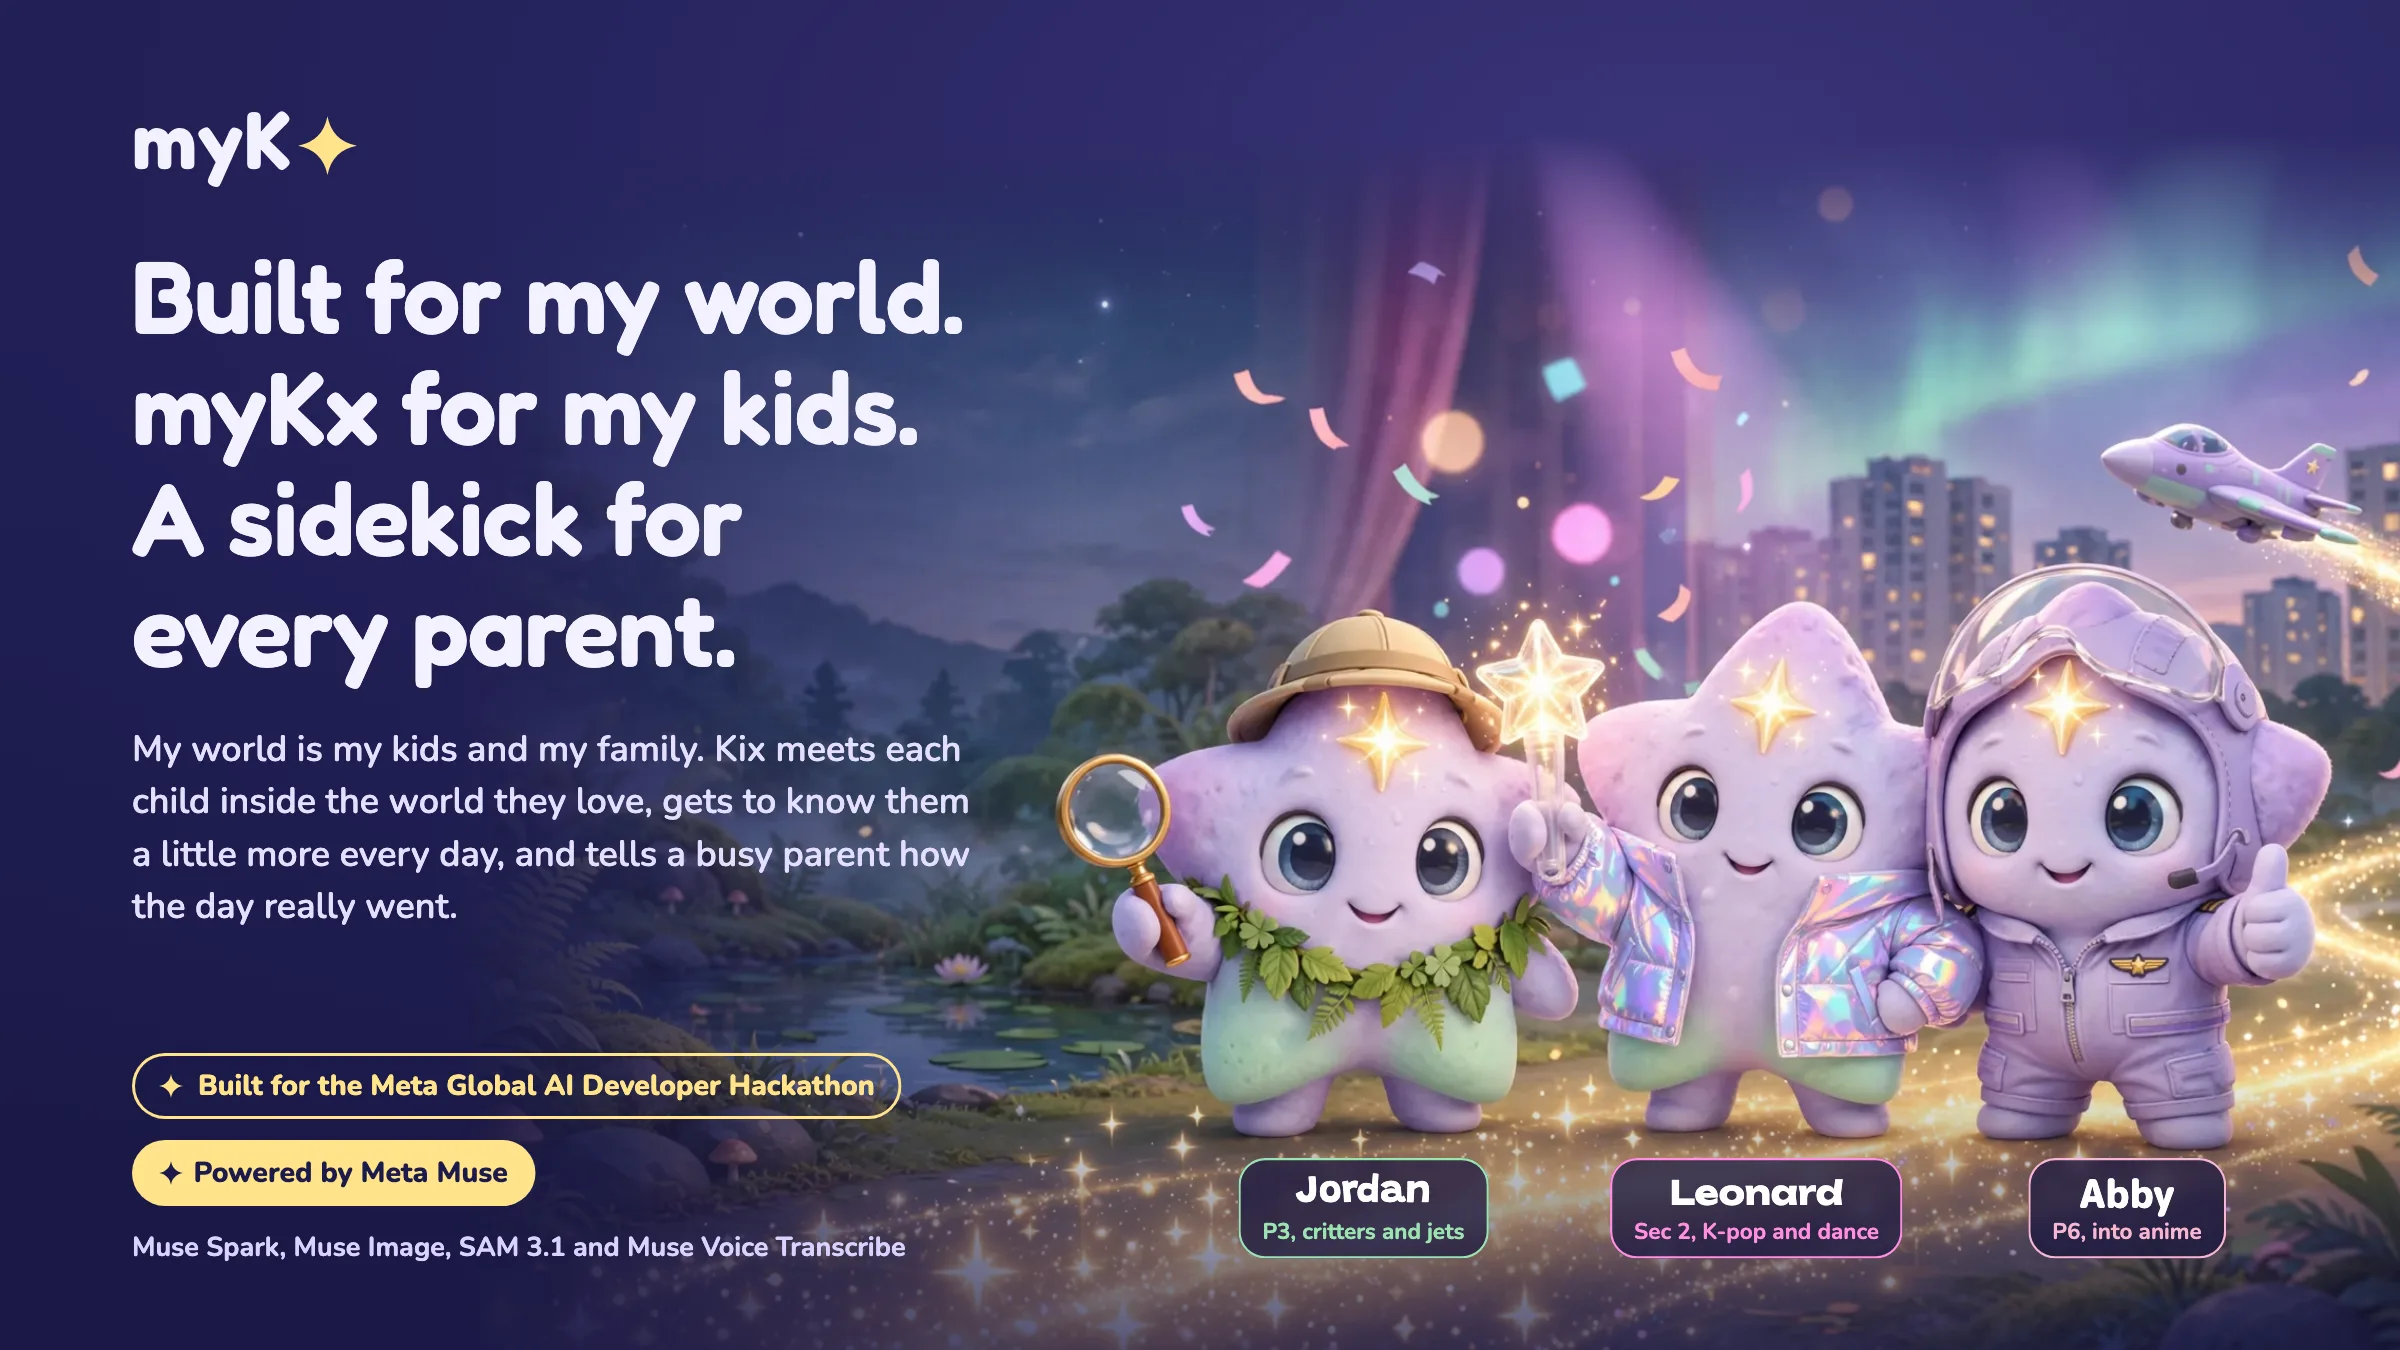
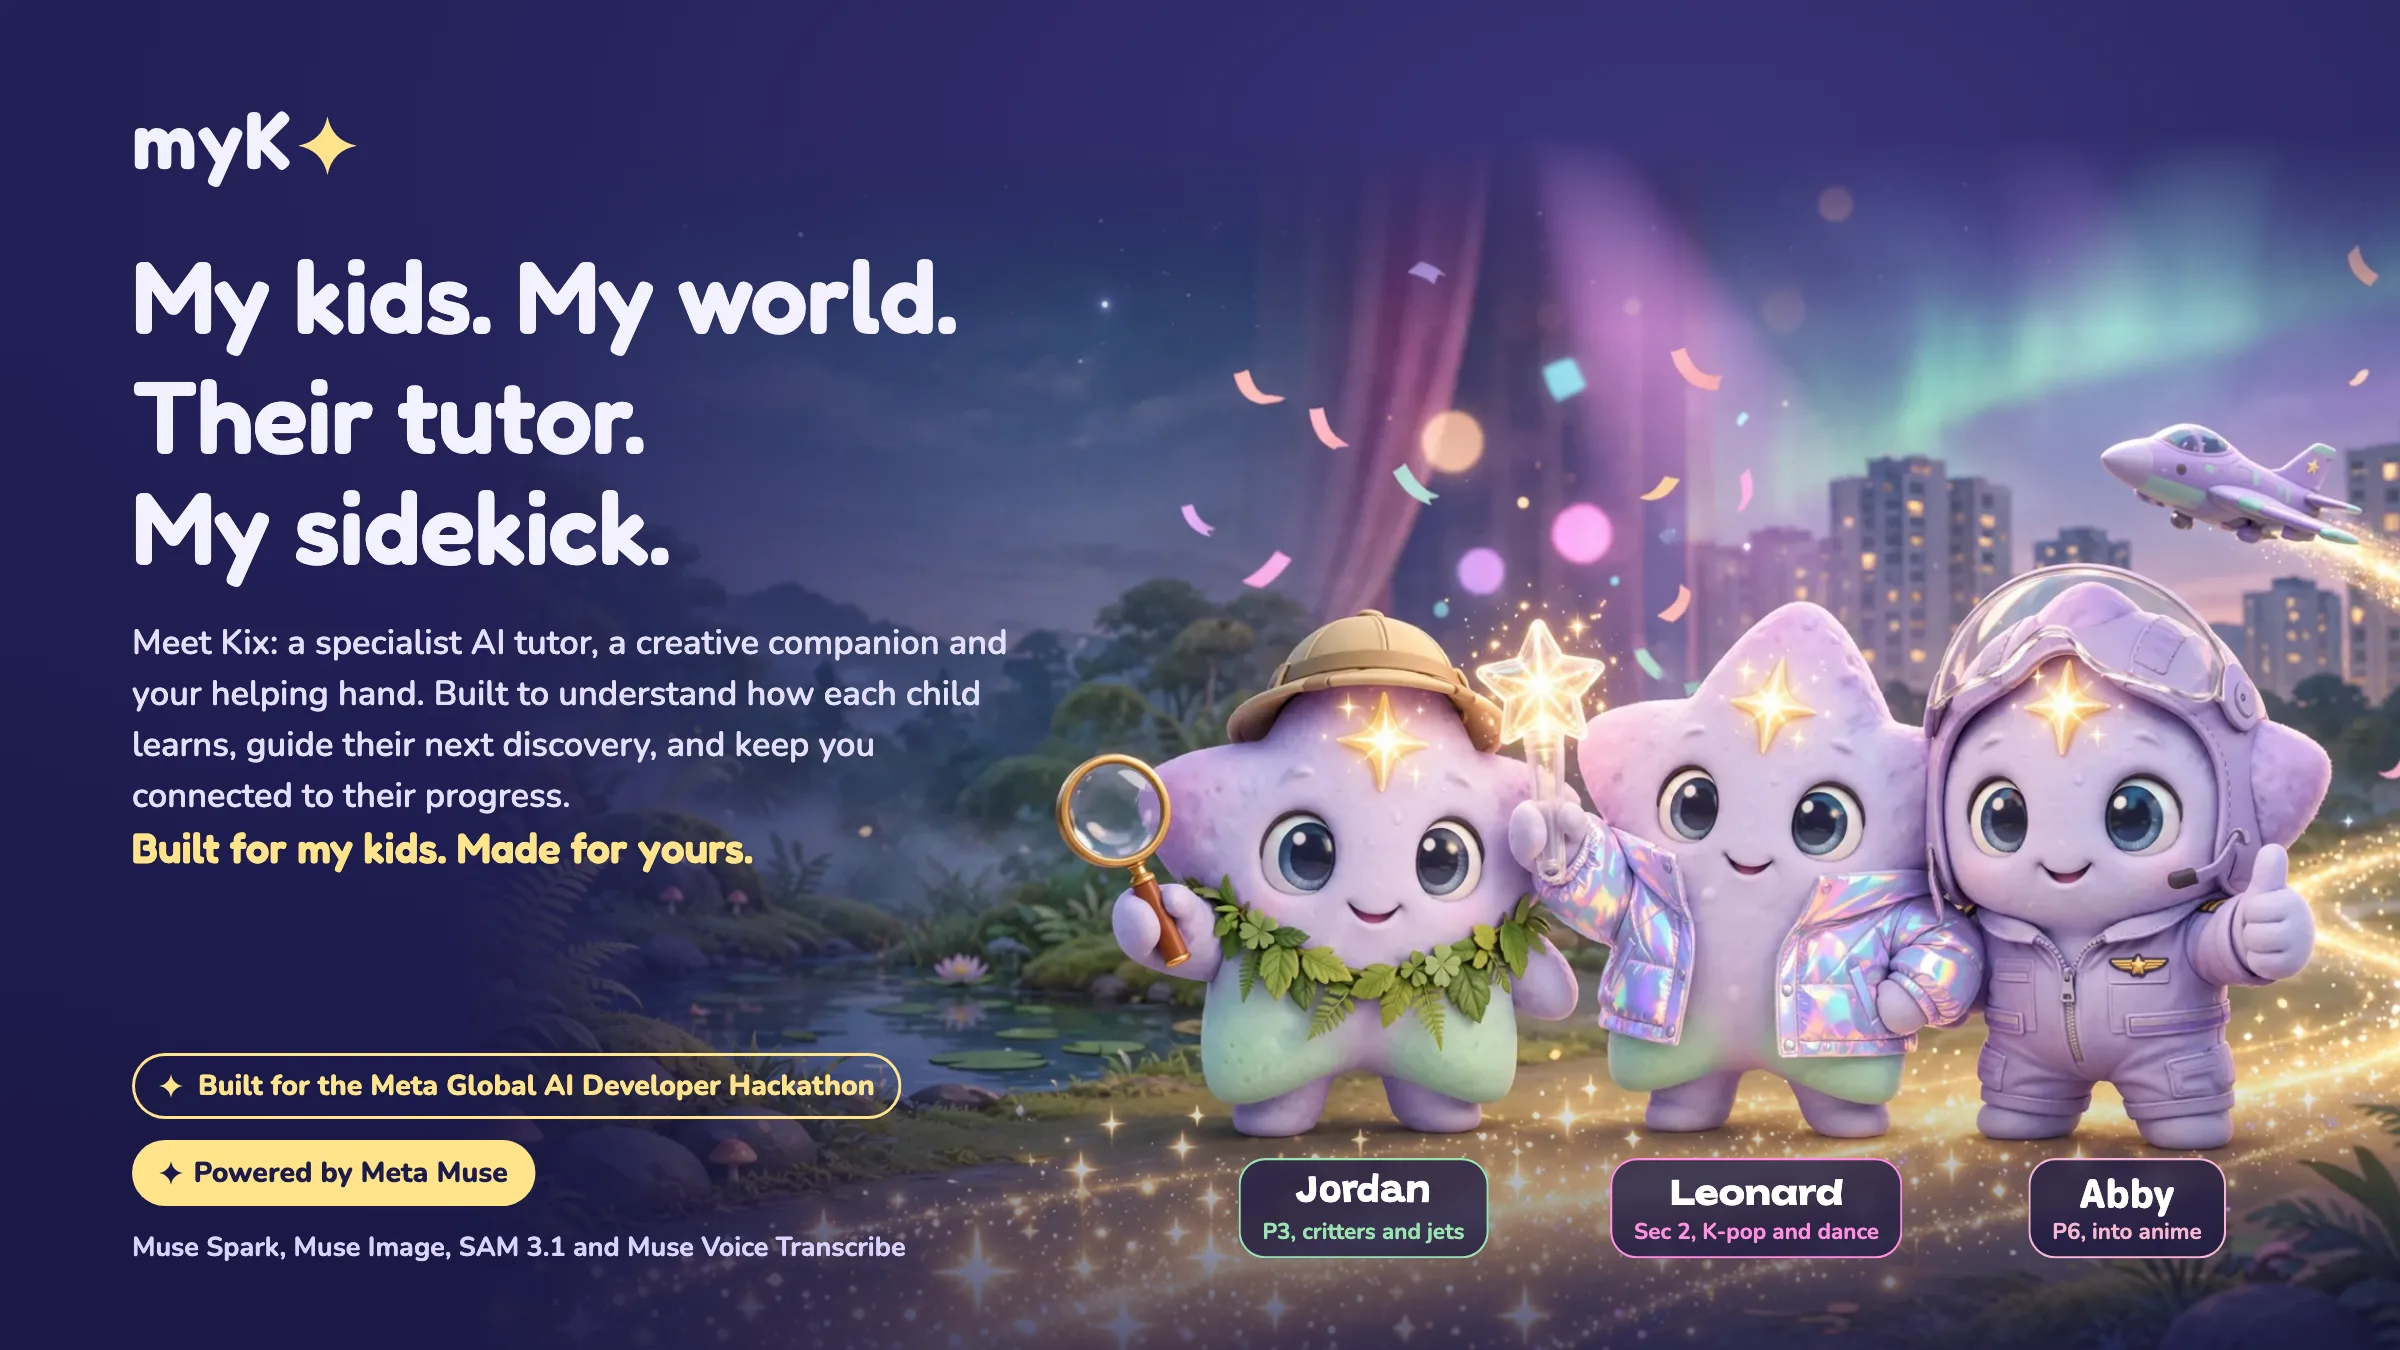
The founder's theme: My kids. My world. Their tutor. My sidekick.
The hero board, the README (top and close) and the video's closing card now carry the founder's lines: "My kids. My world. Their tutor. My sidekick.", "Meet Kix: a specialist AI tutor, a creative companion and your helping hand…" and "Built for my kids. Made for yours." Canvas v65.

Agent: Claude Code
Claude-Session: https://claude.ai/code/session_01W5FUqr3wzG1fxesKh8vtqK

Changed region(s): [[0.0312, 0.1867, 0.4375, 0.6844]]

diff --git a/docs/design/boards/ReadmeHero.dc.html b/docs/design/boards/ReadmeHero.dc.html
@@ -41,7 +41,8 @@ body{margin:0;background:#1C1B4A}
 .h-mark{height:54px;display:block;margin-bottom:34px}
 .h-copy .rd-h1{font-size:68px;line-height:74px}
 .h-copy .rd-h1 span{display:block}
-.h-copy .rd-lede{margin-top:26px;width:560px;font-size:24px;line-height:35px;color:#E4DFFF}
+.h-copy .rd-lede{margin-top:24px;width:600px;font-size:23px;line-height:34px;color:#E4DFFF}
+.h-close{margin-top:28px;font:600 28px/34px "Fredoka",sans-serif;color:#FFE38A}
 .h-badges{position:absolute;left:88px;bottom:56px;display:flex;flex-direction:column;gap:14px;width:720px}
 .h-hack{display:inline-flex;align-items:center;gap:10px;align-self:flex-start;height:44px;padding:0 18px;border-radius:999px;box-shadow:inset 0 0 0 2px #FFE38A;color:#FFE38A;font:800 19px/1 "Nunito",sans-serif}
 .h-muse{display:flex;align-items:center;gap:14px;flex-wrap:wrap}
@@ -59,8 +60,9 @@ body{margin:0;background:#1C1B4A}
 <div class="h-scrim"></div>
 <div class="h-copy">
   <img class="h-mark" src="/_blob/86d2ad40444eabc4ba4c8a0e9f1d4603" alt="myKx">
-  <h1 class="rd-h1"><span>Built for my world.</span><span>myKx for my kids.</span><span>A sidekick for</span><span>every parent.</span></h1>
-  <p class="rd-lede">My world is my kids and my family. Kix meets each child inside the world they love, gets to know them a little more every day, and tells a busy parent how the day really went.</p>
+  <h1 class="rd-h1"><span>My kids. My world.</span><span style="margin-top:6px">Their tutor.</span><span>My sidekick.</span></h1>
+  <p class="rd-lede">Meet Kix: a specialist AI tutor, a creative companion and your helping hand. Built to understand how each child learns, guide their next discovery, and keep you connected to their progress.</p>
+  <p class="h-close">Built for my kids. Made for yours.</p>
 </div>
 <div class="h-tag" style="--c:#9BE3B0;left:909px;top:772px"><b style="font-family:'Grandstander',sans-serif">Jordan</b><small>P3, critters and jets</small></div>
 <div class="h-tag" style="--c:#FF8FE0;left:1171px;top:772px"><b style="font-family:'Unbounded',sans-serif;font-size:22px">Leonard</b><small>Sec 2, K-pop and dance</small></div>

diff --git a/docs/design/canvas-src/readme-boards.py b/docs/design/canvas-src/readme-boards.py
@@ -81,7 +81,8 @@ hero_css = """
 .h-mark{height:54px;display:block;margin-bottom:34px}
 .h-copy .rd-h1{font-size:68px;line-height:74px}
 .h-copy .rd-h1 span{display:block}
-.h-copy .rd-lede{margin-top:26px;width:560px;font-size:24px;line-height:35px;color:#E4DFFF}
+.h-copy .rd-lede{margin-top:24px;width:600px;font-size:23px;line-height:34px;color:#E4DFFF}
+.h-close{margin-top:28px;font:600 28px/34px "Fredoka",sans-serif;color:#FFE38A}
 .h-badges{position:absolute;left:88px;bottom:56px;display:flex;flex-direction:column;gap:14px;width:720px}
 .h-hack{display:inline-flex;align-items:center;gap:10px;align-self:flex-start;height:44px;padding:0 18px;border-radius:999px;box-shadow:inset 0 0 0 2px #FFE38A;color:#FFE38A;font:800 19px/1 "Nunito",sans-serif}
 .h-muse{display:flex;align-items:center;gap:14px;flex-wrap:wrap}
@@ -97,8 +98,9 @@ build_hero = f"""
 <div class="h-scrim"></div>
 <div class="h-copy">
   <img class="h-mark" src="{img('wordmark-dark')}" alt="myKx">
-  <h1 class="rd-h1"><span>Built for my world.</span><span>myKx for my kids.</span><span>A sidekick for</span><span>every parent.</span></h1>
-  <p class="rd-lede">My world is my kids and my family. Kix meets each child inside the world they love, gets to know them a little more every day, and tells a busy parent how the day really went.</p>
+  <h1 class="rd-h1"><span>My kids. My world.</span><span style="margin-top:6px">Their tutor.</span><span>My sidekick.</span></h1>
+  <p class="rd-lede">Meet Kix: a specialist AI tutor, a creative companion and your helping hand. Built to understand how each child learns, guide their next discovery, and keep you connected to their progress.</p>
+  <p class="h-close">Built for my kids. Made for yours.</p>
 </div>
 <div class="h-tag" style="--c:#9BE3B0;left:909px;top:772px"><b style="font-family:'Grandstander',sans-serif">Jordan</b><small>P3, critters and jets</small></div>
 <div class="h-tag" style="--c:#FF8FE0;left:1171px;top:772px"><b style="font-family:'Unbounded',sans-serif;font-size:22px">Leonard</b><small>Sec 2, K-pop and dance</small></div>

diff --git a/docs/plan/PROGRESS.md b/docs/plan/PROGRESS.md
@@ -103,6 +103,7 @@ Dates are SGT. "Agent" is who did the work; "Tools" are the models and services 
 | 29 Oct | Kix gets better every day, and the kids' real interests (founder's README notes). **Tender start:** `lib/kix/today.ts` reads the last mood reading from an earlier day; after a hard one, Home opens with a warm-up, the teen deck eases in, and the tutor, Ask Kix and spark prompts get a gentle-tone note (Kix never says why; the demo family's Jordan has a labelled sample day). **Interest sparks:** `profiles.interests` chips (Studio and Your family save them; Anime and K-pop added), `lib/kix/interests.ts` facts and places, the Kix Tutor's new `spark` part and `POST /api/kix/spark` (Muse Spark, cached fact fallback, answer-word check), the question player's drift triggers (45 s idle, a guess under 5 s; a sparked answer counts as a hint), a `spark` next step and nudge after a focus-camera dip, and dance breaks for dancers. **Kids:** Abby → Anime Sky (anime), Leonard → Idol Stage (K-pop, dance, anime), Jordan critters and jets; demo store shape 15, seed, production rows updated. A clear note when magic names can't be saved before migration `20261030_kid_username.sql`. README boards: new hero lines, kids, door (design inspiration), Kix gets better every day, simulator, roadmap, feature wall (canvas v62). Docs: ARCHITECTURE §6.3a, AGENTS rule 12, PARENT_INSIGHTS, hood, video beats. | Claude Code | Muse Spark 1.3 (spark lines, live check) | (this commit) | 0:30 Home warm-up; the spark in 0:40–1:15 |
 | 29 Oct | Sign-ins out of git (founder): `hackmuse` removed from every tracked file; the in-memory demo store and tests use local-only secrets (shape 16); production's sample family gets new sign-ins from `.env.local` (`DEMO_PASSWORD`, `DEMO_PICTURE_CODE`) through `scripts/set-demo-secrets.ts` (the founder runs it). **Abby's own room:** an Anime Sky teen's study deck now sits in `AnimeRoom` (Muse Image, original characters only, gentle pastel: posters, figurines, plushies, a standee), with eleven pokeable spots: petals or a shooting star at the window, a lamp that dims the room, posters and a standee that cheer, plushies that give hearts, headphones that play. README: Discord contact. | Claude Code | Muse Image 1.0 (6 candidates, 1 kept) | (this commit) | the teen study deck shot |
 | 29 Oct | Every kid page wears the kid's own world: the kid layout reads the signed-in kid and themes `ThemeRoot` from their pack and band (it was left on Dreamlight outside Home and Me). Vibe Zone: "Vibe an app" shown as coming soon (a card and a disabled choice); roadmap in ARCHITECTURE §11, PRD_REVIEW FR09, the README and its roadmap board (canvas v64): apps from a validated spec run by trusted components, never model-authored code. | Claude Code | none | (this commit) | Vibe Zone shot |
+| 29 Oct | The founder's theme: "My kids. My world. Their tutor. My sidekick.", "Meet Kix: a specialist AI tutor, a creative companion and your helping hand…" and "Built for my kids. Made for yours." on the hero board (canvas), the README and the video's closing card. Demo password changed to the founder's choice (in `.env.local`, applied with `scripts/set-demo-secrets.ts`). | Claude Code | none | (this commit) | the hero and the closing card |
 
 ## How to add a row
 

diff --git a/docs/plan/IMPLEMENTATION_PLAN.md b/docs/plan/IMPLEMENTATION_PLAN.md
@@ -218,7 +218,7 @@ Script target: about 360 words of voice-over (130 a minute), finished by Day 5. 
 | 1:45–2:00 | The parent's phone: "Jordan seemed tired in 3 evening sessions" with the evidence → Message Jordan with a Kix sticker → Jordan's sticker reply → Tonight's paragraph | Parent dashboard, messages | care, evidence, not labels |
 | 2:00–2:20 | Guardian: Muse's "Right now" over the map (Jordan walking home) → Home now's floor plan → a watch card, "possibly a tug-of-war", with SAM 3.1 outlines → the parent taps **Not right** → a 3 s flash of Do something together ("Muse searched the web: badminton at Sengkang Sports Hall…"); lower third: "Your cameras, read by Muse Spark and SAM 3.1. Frames deleted after 24 h. Kix never sees them." | Where they are, Home now, Do together | Muse Spark vision, SAM 3.1 and web search, live; built for Singapore families |
 | 2:20–2:40 | Knowledge that grows (29 Oct): Add knowledge → drop a P6 question paper, then its answer sheet → Muse pairs them and cross-checks every answer (one mismatch flagged red, a spelling slip amber) → the admin overrides the level → Kix writes its own new questions, each worked twice → publish P6 Maths v1.1, with Diff and Restore one tap away → Kix uses it in Ask Kix | Admin: Add knowledge, the skill editor | knowledge that grows, under a human |
-| 2:40–3:00 | The proof: Under the hood's live list of calls across the four Meta models and 16 agents; one tap into the Kix Tutor's instructions (editable, with the guardrails locked and the default always kept); the "P3 Science skill loaded" chip; built 27 Oct–4 Nov; synthetic data; "Kix speaks with your device's voice"; a 2-second roadmap card (mobile app, Home Link streaming, Kix on Meta devices) | Under the hood, roadmap board | Meta tooling, honesty, what's next |
+| 2:40–3:00 | The proof: Under the hood's live list of calls across the four Meta models and 16 agents; one tap into the Kix Tutor's instructions (editable, with the guardrails locked and the default always kept); the "P3 Science skill loaded" chip; built 27 Oct–4 Nov; synthetic data; "Kix speaks with your device's voice"; a 2-second roadmap card (mobile app, Home Link streaming, Kix on Meta devices); the closing card: "My kids. My world. Their tutor. My sidekick." then "Built for my kids. Made for yours." (founder's theme, 29 Oct) | Under the hood, roadmap board | Meta tooling, honesty, what's next |
 
 **Real AI moments (founder, 29 Oct):** the founder's own captures of live Muse answers (for example Ask Kix solving a tough P3 before-and-after question with the MOE model method) go in as stills or short clips, captioned "live answer", alongside the screen recording; check each one's maths before it's used.
 

diff --git a/README.md b/README.md
@@ -1,14 +1,16 @@
 <p align="center">
-  <img src="docs/readme/hero.webp" alt="myKx. Built for my world. myKx for my kids. A sidekick for every parent. Three Kix sidekicks on a path of starlight, for Jordan, Leonard and Abby. Built for the Meta Global AI Developer Hackathon, powered by Meta Muse." width="100%">
+  <img src="docs/readme/hero.webp" alt="myKx. My kids. My world. Their tutor. My sidekick. Built for my kids, made for yours. Three Kix sidekicks on a path of starlight, for Jordan, Leonard and Abby. Built for the Meta Global AI Developer Hackathon, powered by Meta Muse." width="100%">
 </p>
 
 # myKx
 
 [![CI](https://github.com/cyyeong/mykx/actions/workflows/ci.yml/badge.svg)](https://github.com/cyyeong/mykx/actions/workflows/ci.yml)
 
-**Built for my world. myKx for my kids. A sidekick for every parent.**
+**My kids. My world. Their tutor. My sidekick.**
 
-My world is my kids and my family. myKx gives every child an AI sidekick, **Kix**, that meets them inside the world they already love (critters, jets, anime, K-pop) and turns it into learning, and gets to know them a little better every day. It also gives a busy parent the afternoon they missed: what each child learned, how they're feeling, where they are, how home is, and something to do together at the weekend.
+Meet **Kix**: a specialist AI tutor, a creative companion and your helping hand. Built to understand how each child learns, guide their next discovery, and keep you connected to their progress. Kix meets every child inside the world they already love (critters, jets, anime, K-pop), turns it into learning, and gets to know them a little better every day. A busy parent gets back the afternoon they missed: what each child learned, how they're feeling, where they are, how home is, and something to do together at the weekend.
+
+**Built for my kids. Made for yours.**
 
 Built for the **Meta Global AI Developer Hackathon** (track: Build for Your World). Powered by **Meta Muse**: 14 of myKx's 16 specialist agents run on Muse Spark, Muse Image, SAM 3.1 or Muse Voice Transcribe.
 
@@ -157,6 +159,8 @@ For a real home, **Home Link** (`clients/home-link/`) is a small app on the fami
 - **Later: Kix on Meta devices.** A hands-free sidekick at home and outdoors that sees and hears only with permission, for richer and more personal support.
 
 Each step reuses what's already running: devices pair with a code and a hashed token, a Muse reader turns raw input into words, rules decide, and the parent reviews. How far that scales is in [the architecture doc](docs/ARCHITECTURE.md#10-scaling-and-the-long-term-vision). We'd love support to take Kix from a hackathon MVP to every family in Singapore.
+
+**Built for my kids. Made for yours.**
 
 ## Run it
 
